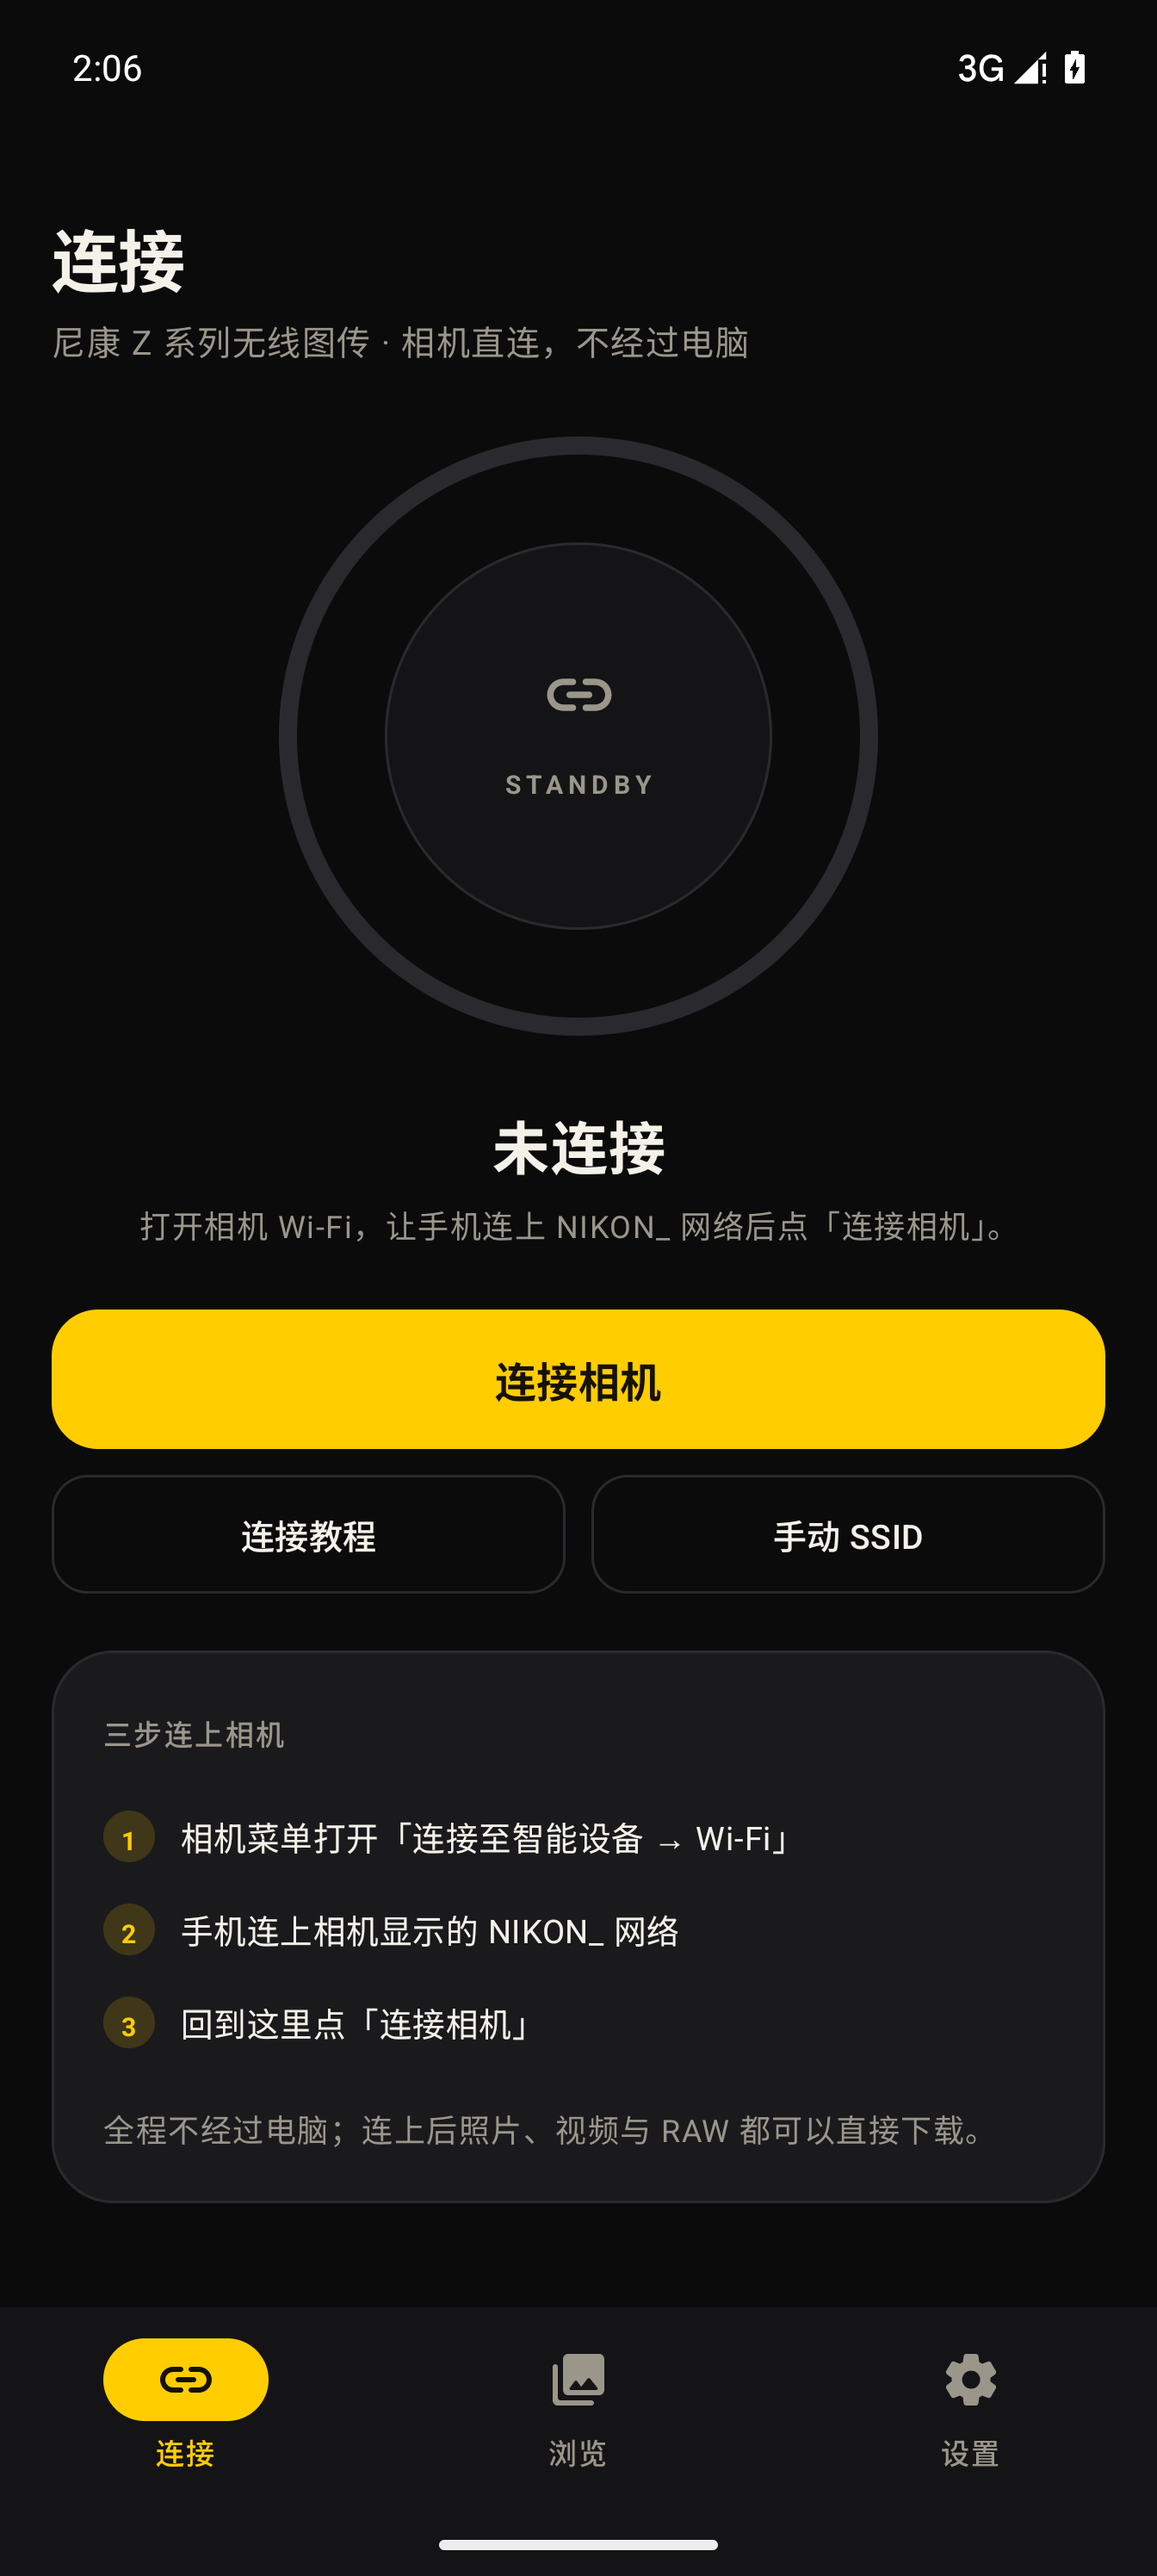
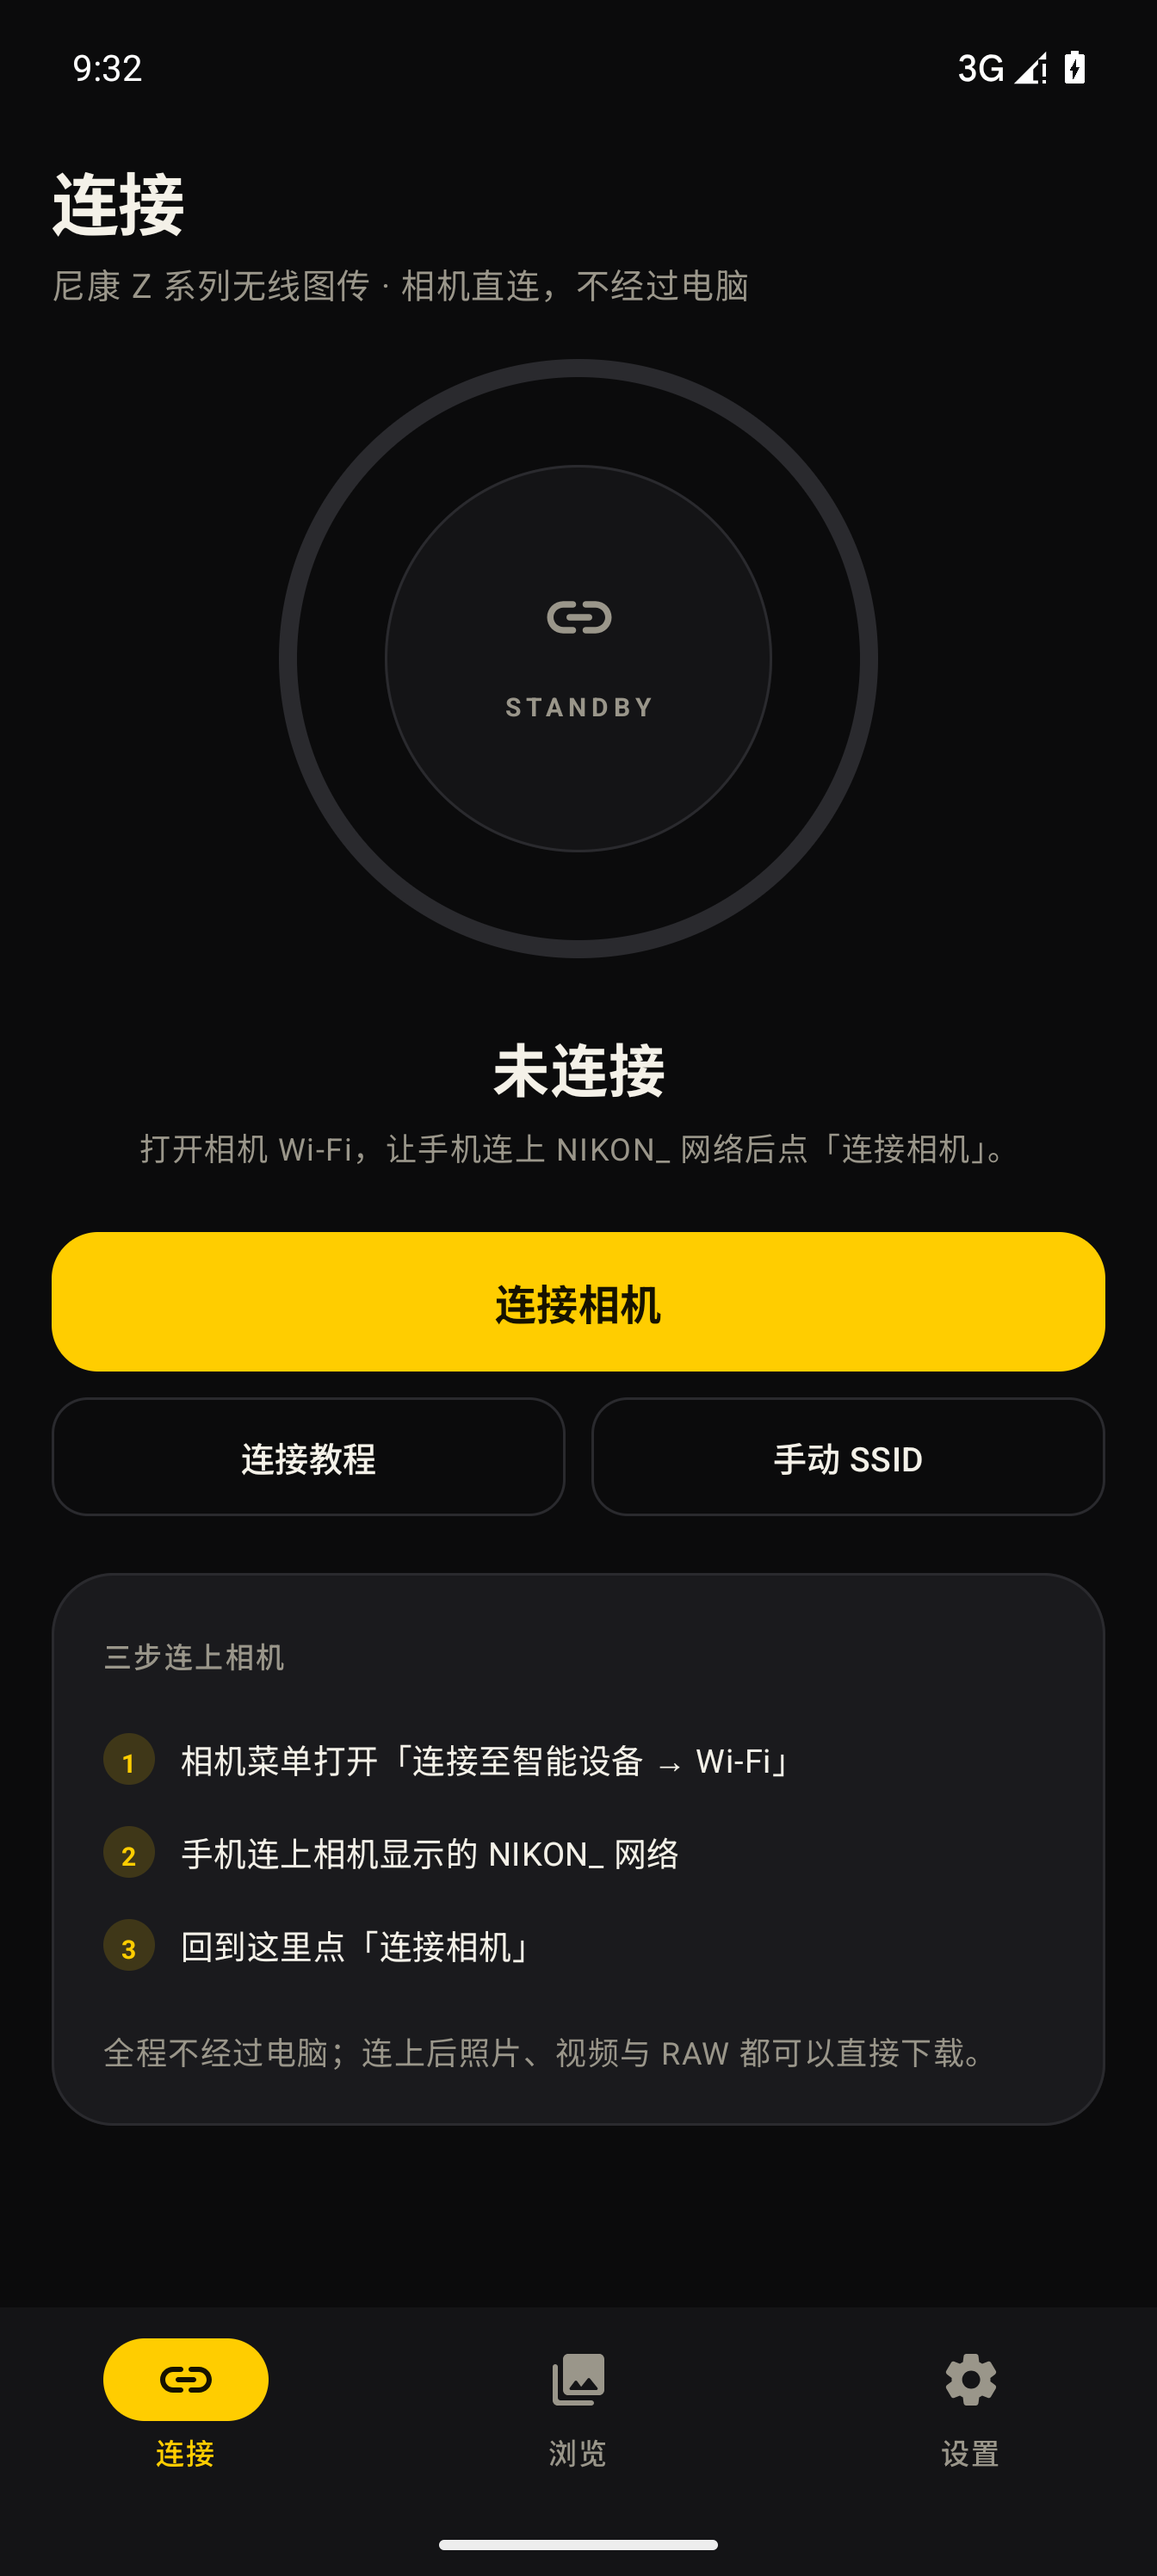
style: 0.1.12 — 字标插画图标、顶部留白收紧、深色闪屏
- 图标改用带 NikonLink 字标的插画（相机→Wi-Fi→照片→手机），整体缩放进自适应图标安全区
- README 顶部加入品牌图
- 连接/浏览/设置标题顶部留白 28/24dp → 6dp
- values-v31 主题设置 windowSplashScreenBackground，消除启动白闪

diff --git a/app/src/main/java/com/achooluv/nikonlink/ui/ConnectScreen.kt b/app/src/main/java/com/achooluv/nikonlink/ui/ConnectScreen.kt
@@ -85,10 +85,10 @@ fun ConnectScreen(
             .verticalScroll(rememberScrollState())
             .padding(bottom = 120.dp),
     ) {
-        Spacer(Modifier.height(28.dp))
+        Spacer(Modifier.height(6.dp))
         ScreenHeader("连接", "尼康 Z 系列无线图传 · 相机直连，不经过电脑")
 
-        Spacer(Modifier.height(28.dp))
+        Spacer(Modifier.height(20.dp))
         Box(Modifier.fillMaxWidth(), contentAlignment = Alignment.Center) {
             StatusEmblem(state)
         }

diff --git a/app/src/main/java/com/achooluv/nikonlink/ui/SettingsScreen.kt b/app/src/main/java/com/achooluv/nikonlink/ui/SettingsScreen.kt
@@ -67,7 +67,7 @@ fun SettingsScreen(repo: NikonLinkRepository) {
             .verticalScroll(rememberScrollState())
             .padding(start = 20.dp, end = 20.dp, bottom = 120.dp),
     ) {
-        Spacer(Modifier.height(28.dp))
+        Spacer(Modifier.height(6.dp))
         Text("设置", color = Paper, fontSize = 26.sp, fontWeight = FontWeight.Bold)
         Spacer(Modifier.height(3.dp))
         Text("只保留必要选项", color = NikonLinkTheme.colors.dim, fontSize = 12.sp)

diff --git a/app/src/main/java/com/achooluv/nikonlink/ui/BrowseScreen.kt b/app/src/main/java/com/achooluv/nikonlink/ui/BrowseScreen.kt
@@ -155,7 +155,7 @@ fun BrowseScreen(repo: NikonLinkRepository) {
 
     Column(Modifier.fillMaxSize()) {
         Row(
-            Modifier.fillMaxWidth().padding(start = 20.dp, end = 12.dp, top = 24.dp),
+            Modifier.fillMaxWidth().padding(start = 20.dp, end = 12.dp, top = 6.dp),
             verticalAlignment = Alignment.CenterVertically,
         ) {
             Column(Modifier.weight(1f)) {
